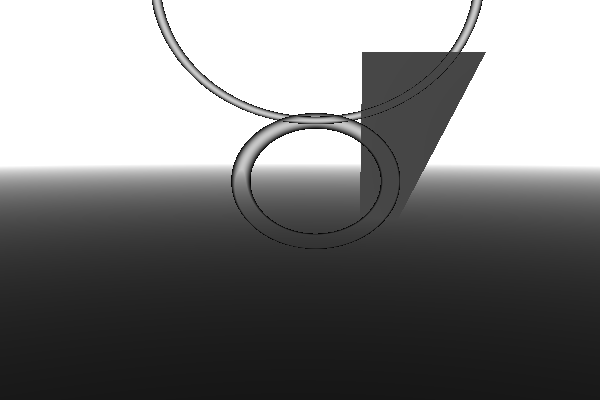
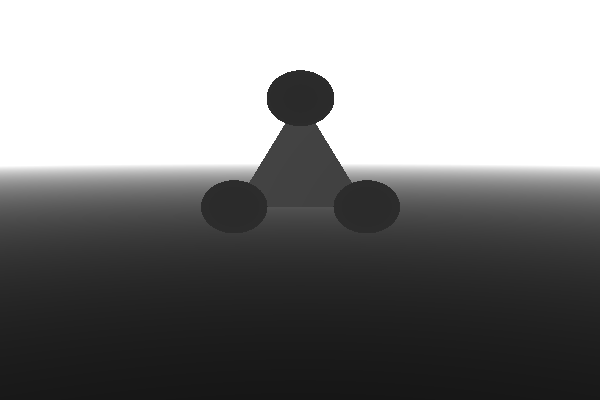
fixed

Changed region(s): [[0.24, 0.0, 0.81, 0.57]]

diff --git a/raytrace.py b/raytrace.py
@@ -2,7 +2,7 @@
 
 from PIL import Image
 import numpy as np
-from numba import jit, cuda
+
 
 class Sphere:
     def __init__(self, radius, center):
@@ -13,15 +13,15 @@ class Sphere:
         c = self.center
         r = self.radius
         t = np.dot(c-origin, ray) 
-        t1= np.square(np.dot(c-origin, ray))
+        t1= np.square(t)
         t1-= (np.dot(origin-c, origin-c) - np.square(r))
-        t1 = np.square(t1)
+        if t1 < 0:
+            return None
+        t1 = np.sqrt(t1)
         t-=t1
         if t < 0:
             return None
-        #dist = origin + t01*ray
-        #dist = np.linalg.norm(t-origin)
-        #dist = (dist-1)/dist
+
         return t
     
 class Plane:
@@ -39,16 +39,13 @@ class Plane:
         return t
     
 class Triangle:
-    def __init__(self, pointsABC, sizesRS):
+    def __init__(self, pointsABC):
         self.points = pointsABC
-        self.sizes = sizesRS
         
     def intersectionParameter(self, ray, origin):
         a = self.points[0]
         b = self.points[1]
         c = self.points[2]
-        r = self.sizes[0]
-        s = self.sizes[1]
         
         u = b - a
         v = c - a
@@ -104,41 +101,28 @@ def raytrace(w, h, background_color, objectlist):
     
 # image width , h e i g h t
 w, h = 600, 400
-# g e n e r a t e a g r a y s c a l e ( one c h a n n e l ) n o i s e image
-gs_img1 = np.random.rand(w,h)
-gs_img2 = np.random.rand(w,h)
-gs_img3 = np.random.rand(w,h)
-# s c a l e image v a l u e s t o [ 0 , 2 5 5 ]
-gs_img1 = 255* gs_img1
-gs_img2 = 255* gs_img2
-gs_img3 = 255* gs_img3
-# g e n e r a t e 8 B i t PIL image . These a re t r a n s p o s e d compared
-# t o numpy a r r a y s .
-r = Image.fromarray(gs_img1.astype(np.uint8).T)
-g = Image.fromarray(gs_img2.astype(np.uint8).T)
-b = Image.fromarray(gs_img3.astype(np.uint8).T)
 
-# make RGB image ( h e r e a l l t h r e e c h a n n e l s a re t h e same )
-rgb = [r,g,b]
-# merge c h a n n e l s and s a g e image
-Image.merge("RGB",rgb).save("noise_image.png")
+a = np.array([0,1,1])
+b = np.array([-1,3,1])
+c = np.array([1,3,1])
 
 objectlist = []
-sphere1 = Sphere(5, np.array([1,5,-30]))
+sphere1 = Sphere(0.5, a)
 objectlist.append(sphere1)
 
-sphere2 = Sphere(10, np.array([1,-10,-30]))
+sphere2 = Sphere(0.5, b)
 objectlist.append(sphere2)
+
+sphere3 = Sphere(0.5, c)
+objectlist.append(sphere3)
 
 plane1 = Plane(np.array([0,1,0]), np.array([1,4,-30]))
 objectlist.append(plane1)
 
-a = np.array([1,0,0])
-b = np.array([1,5,0])
-c = np.array([3,0,0])
 
-tria1 = Triangle(np.array([a,b,c]), np.array([10,15]))
+tria1 = Triangle(np.array([a,b,c]))
 objectlist.append(tria1)
+
 
 rayimg = raytrace(w,h, 255, objectlist)
 rayimg.save("ersteKugel.png")
